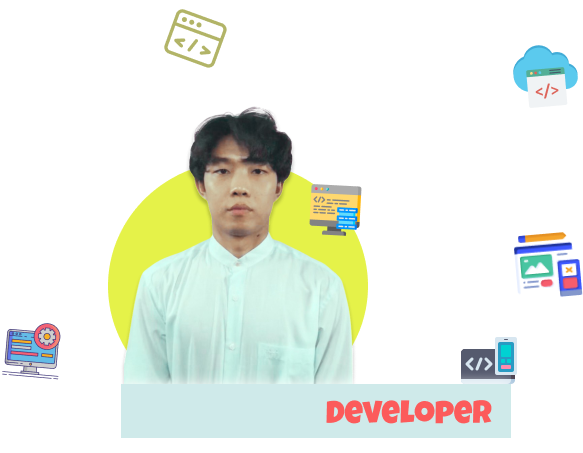
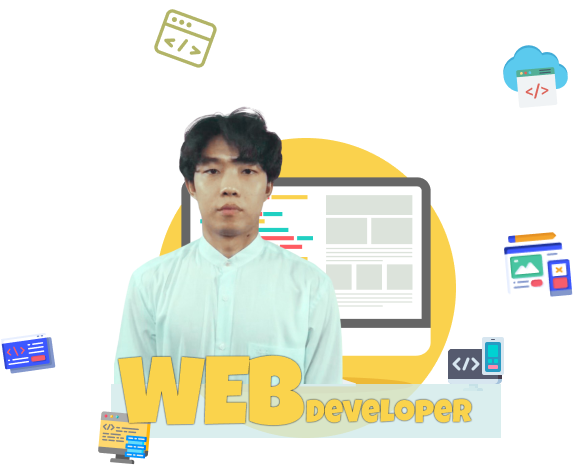
added cover image

diff --git a/app/_components/Cover-image.jsx b/app/_components/Cover-image.jsx
@@ -1,6 +1,6 @@
 import Image from "next/image";
 import { motion } from "framer-motion";
-import WebSvg from "./WebSvg";
+// import WebSvg from "./WebSvg";
 
 const floatingVariants = {
   initial: {
@@ -144,9 +144,9 @@ const CoverImage = () => {
           className=""
         />
       </motion.div>
-      <div className="z-30 absolute -bottom-12 md:-bottom-20 left-[17%]">
+      {/* <div className="z-30 absolute -bottom-12 md:-bottom-20 left-[17%]">
         <WebSvg />
-      </div>
+      </div> */}
     </motion.div>
   );
 };

diff --git a/app/_components/frontPage.jsx b/app/_components/frontPage.jsx
@@ -36,7 +36,7 @@ export const FrontPage = () => {
   };
   return (
     <>
-      <section className="w-full bg-primary dark:bg-slate-800 overflow-hidden max-w-screen">
+      <section className="w-full bg-primary dark:bg-gradient-dark overflow-hidden max-w-screen">
         <Cover />
       </section>
       <section className="flex flex-col h-screen w-full justify-center items-center md:flex-row overflow-hidden max-w-screen">
